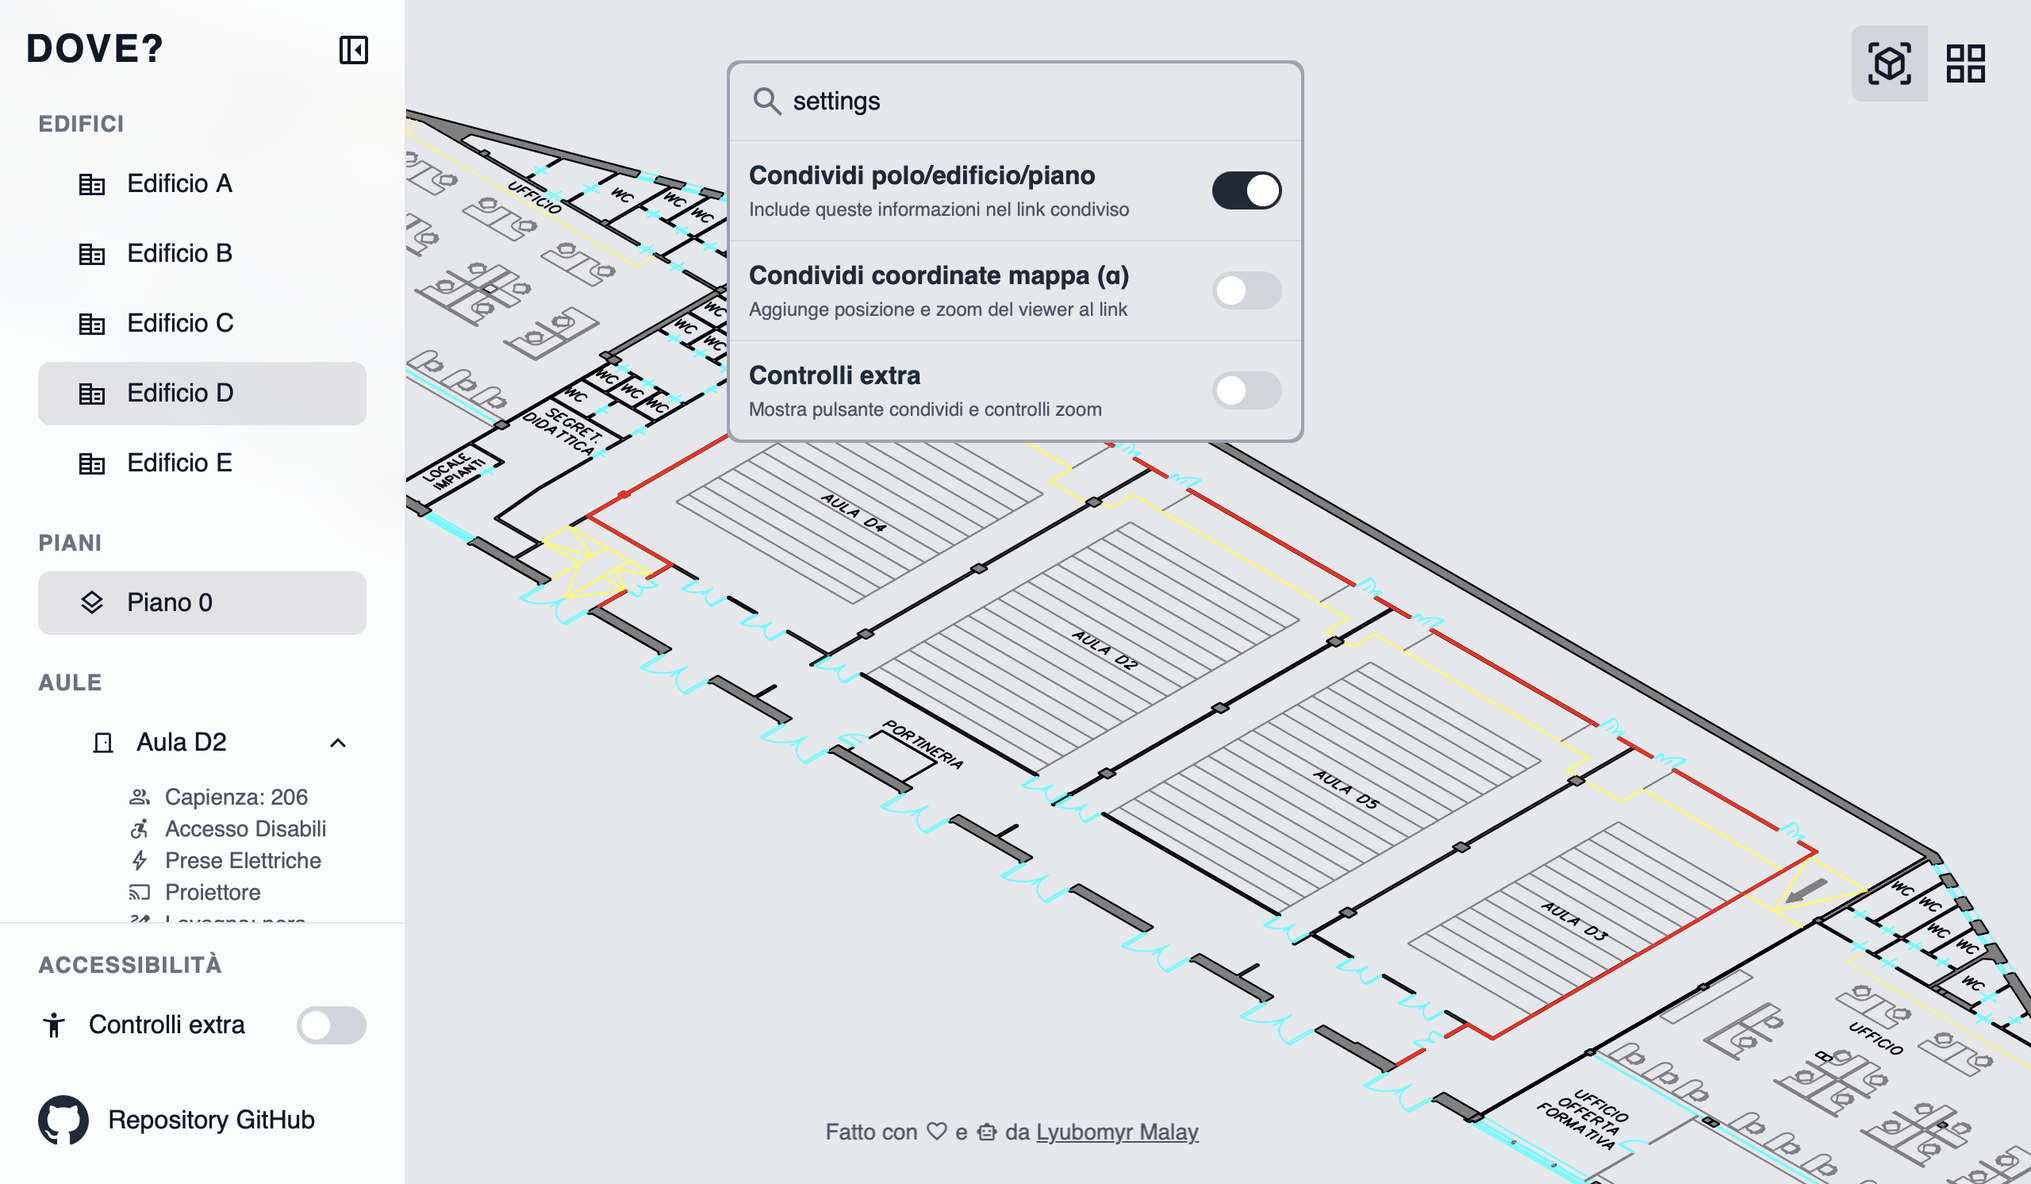
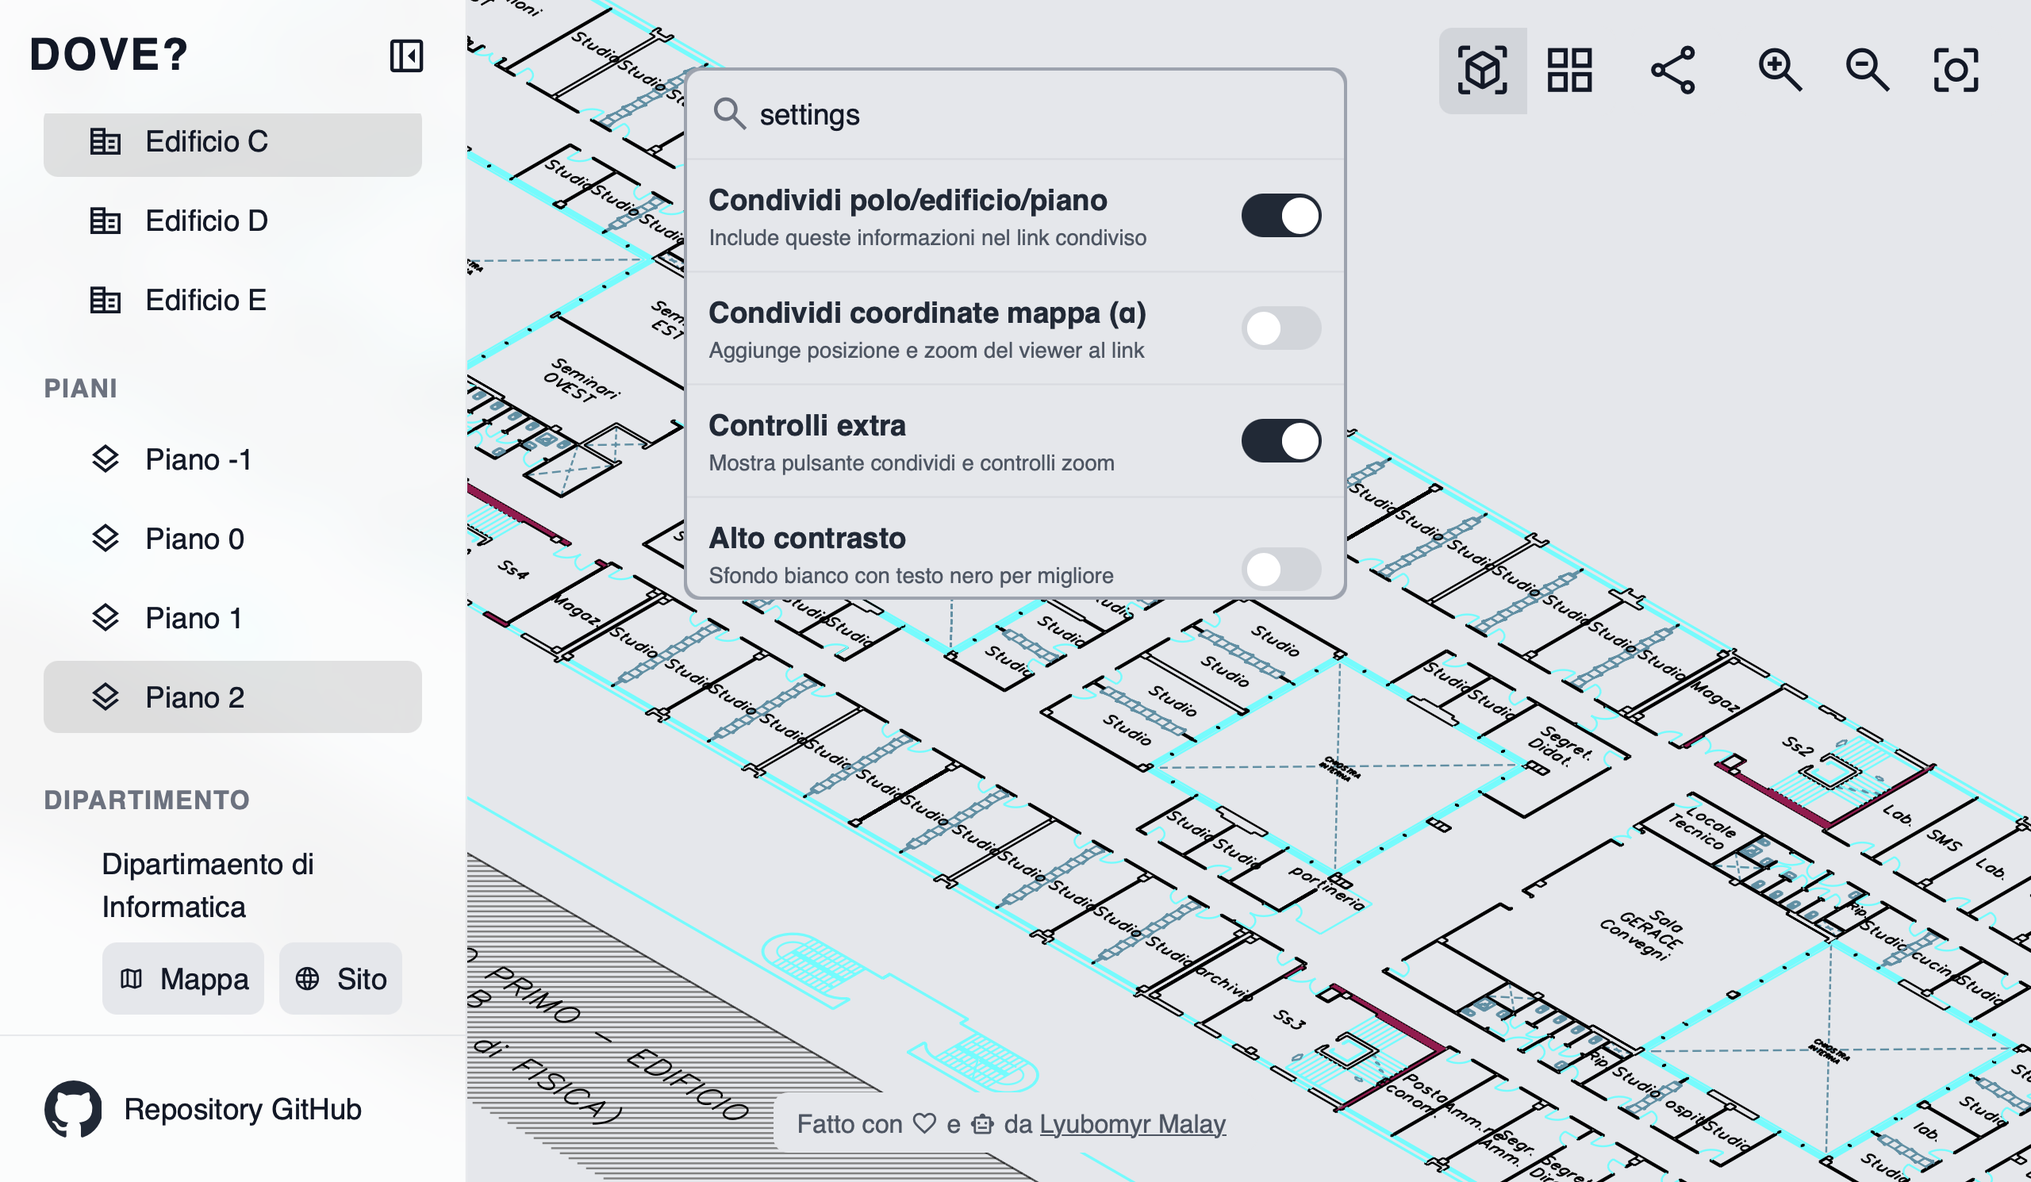
🐦⬛
Aggiunta la modalità ad alto contrasto.
Rimosso il toggle di accessibilità dalla barra laterale.
Aggiunta la sezione “Dipartimento”.
Aggiornato il file rooms.json (ancora da rifinire).
Ora la capienza viene mostrata su una nuova riga nella ricerca; anche gli altri valori non dovrebbero più spezzarsi.

diff --git a/index.html b/index.html
@@ -144,8 +144,8 @@ RMMMMRMMMMME        EMMMMMMMMMMMMM!
         .search-result-item:hover .details {
             color: #1F2937; /* gray-800 */
         }
-        .search-result-item.selected {
-            background-color: rgba(0, 0, 0, 0.1); /* 10% black opacity */
+        .nav-item.selected {
+            background-color: rgba(0, 0, 0, 0.1);
         }
         /* Stile per Google Material Symbols */
         .material-symbols-outlined {
@@ -446,6 +446,91 @@ RMMMMRMMMMME        EMMMMMMMMMMMMM!
                 z-index: 45;
             }
         }
+        /* High Contrast Mode */
+        .high-contrast {
+            background-color: white !important;
+            color: black !important;
+        }
+        .high-contrast * {
+            background-color: white !important;
+            color: black !important;
+            border-color: black !important;
+        }
+        .high-contrast svg * {
+            fill: black !important;
+            stroke: black !important;
+        }
+        .high-contrast .github-icon * {
+            fill: #1F2937 !important;
+            stroke: none !important;
+        }
+        .high-contrast #mobile-search-container {
+            background-color: transparent !important;
+        }
+        .high-contrast #share-btn {
+            width: 52px !important;
+            height: 52px !important;
+        }
+        .high-contrast button,
+        .high-contrast .button-group > button {
+            border: 2px solid black !important;
+        }
+        .high-contrast .button-group {
+            border: 2px solid black !important;
+        }
+        .high-contrast .button-group > button {
+            border: none !important;
+        }
+        .high-contrast .button-group > button.active {
+            background-color: black !important;
+            color: white !important;
+        }
+        .high-contrast .button-group > button.active .material-symbols-outlined {
+            color: white !important;
+            background-color: transparent !important;
+        }
+        .high-contrast .button-group > button.active svg * {
+            fill: white !important;
+            stroke: white !important;
+            background-color: transparent !important;
+        }
+        .high-contrast #top-bar {
+            background-color: transparent !important;
+        }
+        .high-contrast .nav-item.selected {
+            background-color: black !important;
+            color: white !important;
+        }
+        .high-contrast .nav-item.selected * {
+            background-color: transparent !important;
+            color: white !important;
+        }
+        .high-contrast .nav-item.selected .material-symbols-outlined {
+            color: white !important;
+            background-color: transparent !important;
+        }
+        .high-contrast .nav-item.selected svg * {
+            fill: white !important;
+            stroke: white !important;
+            background-color: transparent !important;
+        }
+        /* Toggle switches in high contrast mode */
+        .high-contrast label.relative.inline-flex > div {
+            background-color: black !important;
+            box-shadow: inset 0 0 0 1px white !important;
+        }
+        .high-contrast label.relative.inline-flex input:checked + div {
+            background-color: white !important;
+            box-shadow: inset 0 0 0 1px black !important;
+        }
+        .high-contrast label.relative.inline-flex > div::after {
+            background-color: white !important;
+            border-color: white !important;
+        }
+        .high-contrast label.relative.inline-flex input:checked + div::after {
+            background-color: black !important;
+            border-color: black !important;
+        }
     </style>
 </head>
 <body class="bg-gray-100 text-gray-900 no-transition">
@@ -566,7 +651,6 @@ RMMMMRMMMMME        EMMMMMMMMMMMMM!
 
                 <!-- Aule -->
                 <div class="p-2">
-                    <h3 class="text-sm font-semibold text-gray-500 uppercase tracking-wider">Aule</h3>
                     <div id="rooms-list" class="mt-2 space-y-1">
                         <!-- Le aule verranno inserite qui -->
                     </div>
@@ -575,25 +659,8 @@ RMMMMRMMMMME        EMMMMMMMMMMMMM!
 
             <!-- Footer Sidebar -->
             <div class="p-4 border-t border-gray-300/50 space-y-4">
-                <!-- Accessibilità -->
-                <div>
-                    <h3 class="px-2 text-sm font-semibold text-gray-500 uppercase tracking-wider">Accessibilità</h3>
-                    <div class="mt-2 space-y-1">
-                        <div class="flex items-center justify-between p-2 rounded-lg">
-                            <label for="accessibility-toggle" class="flex items-center space-x-3 cursor-pointer">
-                                <span class="material-symbols-outlined" style="font-size: 20px; line-height: 1;">accessibility_new</span>
-                                <span>Controlli extra</span>
-                            </label>
-                            <label class="relative inline-flex items-center cursor-pointer">
-                                <input type="checkbox" id="accessibility-toggle" class="sr-only peer">
-                                <div class="w-11 h-6 bg-gray-300 rounded-full peer peer-checked:after:translate-x-full peer-checked:after:border-white after:content-[''] after:absolute after:top-0.5 after:left-[2px] after:bg-white after:border-gray-300 after:border after:rounded-full after:h-5 after:w-5 after:transition-all peer-checked:bg-gray-800"></div>
-                            </label>
-                        </div>
-                    </div>
-                </div>
-
                 <a href="https://github.com/plumkewe/dove-unipi" target="_blank" class="nav-item flex items-center space-x-3 p-2 rounded-lg">
-                    <svg class="w-8 h-8 text-gray-800" viewBox="0 0 16 16" fill="currentColor" aria-hidden="true">
+                    <svg class="w-8 h-8 text-gray-800 github-icon" viewBox="0 0 16 16" fill="currentColor" aria-hidden="true">
                         <path d="M8 0C3.58 0 0 3.58 0 8c0 3.54 2.29 6.53 5.47 7.59.4.07.55-.17.55-.38 0-.19-.01-.82-.01-1.49-2.01.37-2.53-.49-2.69-.94-.09-.23-.48-.94-.82-1.13-.28-.15-.68-.52-.01-.53.63-.01 1.08.58 1.23.82.72 1.21 1.87.87 2.33.66.07-.52.28-.87.51-1.07-1.78-.2-3.64-.89-3.64-3.95 0-.87.31-1.59.82-2.15-.08-.2-.36-1.02.08-2.12 0 0 .67-.21 2.2.82.64-.18 1.32-.27 2-.27.68 0 1.36.09 2 .27 1.53-1.04 2.2-.82 2.2-.82.44 1.1.16 1.92.08 2.12.51.56.82 1.27.82 2.15 0 3.07-1.87 3.75-3.65 3.95.29.25.54.73.54 1.48 0 1.07-.01 1.93-.01 2.2 0 .21.15.46.55.38A8.013 8.013 0 0016 8c0-4.42-3.58-8-8-8z"></path>
                     </svg>
                     <span>Repository GitHub</span>
@@ -608,6 +675,11 @@ RMMMMRMMMMME        EMMMMMMMMMMMMM!
                 <!-- L'SVG verrà caricato qui -->
             </div>
         </div>
+    </div>
+
+    <!-- Hidden accessibility toggle for script access -->
+    <div style="display: none;">
+        <input type="checkbox" id="accessibility-toggle">
     </div>
 
     <!-- Controlli Zoom/Pan e Vista -->
@@ -757,10 +829,15 @@ RMMMMRMMMMME        EMMMMMMMMMMMMM!
             const accessibilityToggle = document.getElementById('accessibility-toggle');
             const storedShareCoordinates = localStorage.getItem('shareCoordinatesEnabled');
             const storedSharePath = localStorage.getItem('sharePathEnabled');
+            const storedHighContrast = localStorage.getItem('highContrastEnabled');
             const settingsConfig = {
                 shareCoordinates: storedShareCoordinates ? storedShareCoordinates === 'true' : false,
-                sharePath: storedSharePath ? storedSharePath === 'true' : true
+                sharePath: storedSharePath ? storedSharePath === 'true' : true,
+                highContrast: storedHighContrast ? storedHighContrast === 'true' : false
             };
+
+            // Apply initial high contrast setting
+            setHighContrastSetting(settingsConfig.highContrast);
 
             // Gestione controlli accessibilità
             const setAccessibilityControls = (visible) => {
@@ -959,13 +1036,13 @@ RMMMMRMMMMME        EMMMMMMMMMMMMM!
                             });
                         });
                     } else {
-                        const capacityDetails = result.room && result.room.capienza != null ? ` · Capienza ${result.room.capienza}` : '';
+                        const capacityDetails = result.room && result.room.capienza != null ? result.room.capienza : null;
                         resultElement.innerHTML = `
                             <div class="title">${result.room.nome}</div>
                             <div class="details">
                                 Polo ${result.polo.charAt(0).toUpperCase() + result.polo.slice(1)} <span class="material-symbols-outlined" style="font-size: 14px; vertical-align: -3px;">chevron_right</span>
                                 Edificio ${result.edificio.toUpperCase()} <span class="material-symbols-outlined" style="font-size: 14px; vertical-align: -3px;">chevron_right</span>
-                                Piano ${result.piano}${capacityDetails}
+                                Piano ${result.piano}${capacityDetails ? '<div>Capienza ' + capacityDetails + '</div>' : ''}
                             </div>
                         `;
                         resultElement.addEventListener('click', () => {
@@ -1013,6 +1090,13 @@ RMMMMRMMMMME        EMMMMMMMMMMMMM!
                         description: 'Mostra pulsante condividi e controlli zoom',
                         checked: accessibilityToggle.checked,
                         onToggle: setExtraControlsSetting
+                    },
+                    {
+                        key: 'highContrast',
+                        label: 'Alto contrasto',
+                        description: 'Sfondo bianco con testo nero per migliore accessibilità',
+                        checked: settingsConfig.highContrast,
+                        onToggle: setHighContrastSetting
                     }
                 ];
 
@@ -1107,6 +1191,17 @@ RMMMMRMMMMME        EMMMMMMMMMMMMM!
                 syncSettingsToggles();
             }
 
+            function setHighContrastSetting(isEnabled) {
+                settingsConfig.highContrast = isEnabled;
+                localStorage.setItem('highContrastEnabled', isEnabled);
+                if (isEnabled) {
+                    document.body.classList.add('high-contrast');
+                } else {
+                    document.body.classList.remove('high-contrast');
+                }
+                syncSettingsToggles();
+            }
+
             function syncSettingsToggles() {
                 document.querySelectorAll('input[data-settings-toggle]').forEach(input => {
                     const toggleType = input.getAttribute('data-settings-toggle');
@@ -1119,6 +1214,9 @@ RMMMMRMMMMME        EMMMMMMMMMMMMM!
                             break;
                         case 'extraControls':
                             input.checked = accessibilityToggle.checked;
+                            break;
+                        case 'highContrast':
+                            input.checked = settingsConfig.highContrast;
                             break;
                         default:
                             break;
@@ -1392,9 +1490,9 @@ RMMMMRMMMMME        EMMMMMMMMMMMMM!
                 Array.from(polosList.children).forEach(child => {
                     const poloName = child.querySelector('span:last-child').textContent.split(' ')[1].toLowerCase();
                     if (poloName === polo) {
-                        child.classList.add('bg-gray-900/10');
+                        child.classList.add('selected');
                     } else {
-                        child.classList.remove('bg-gray-900/10');
+                        child.classList.remove('selected');
                     }
                 });
 
@@ -1448,8 +1546,57 @@ RMMMMRMMMMME        EMMMMMMMMMMMMM!
                 // Gestisce entrambe le strutture dati: array di aule o oggetto con chiave 'aule'
                 const rooms = Array.isArray(floorData) ? floorData : (floorData?.aule ? Object.values(floorData.aule) : []);
 
-                if (rooms.length > 0) {
-                    rooms.forEach(room => {
+                const departments = rooms.filter(room => room.type === 'dipartimento');
+                const regularRooms = rooms.filter(room => room.type !== 'dipartimento');
+
+                if (departments.length > 0) {
+                    // Add Dipartimento header
+                    const deptHeader = document.createElement('h4');
+                    deptHeader.textContent = 'Dipartimento';
+                    deptHeader.className = 'text-sm font-semibold text-gray-500 uppercase tracking-wider';
+                    roomsList.appendChild(deptHeader);
+
+                    // List departments
+                    departments.forEach(dept => {
+                        const deptElement = document.createElement('div');
+                        deptElement.className = 'w-full text-left p-2 pl-8';
+                        deptElement.innerHTML = `<span>${dept.nome}</span>`;
+                        
+                        const buttonsContainer = document.createElement('div');
+                        buttonsContainer.className = 'flex space-x-2 mt-2';
+                        
+                        if (dept['link-mappa']) {
+                            const mapBtn = document.createElement('a');
+                            mapBtn.href = dept['link-mappa'];
+                            mapBtn.target = '_blank';
+                            mapBtn.className = 'flex items-center space-x-2 p-2 bg-gray-200 rounded-lg hover:bg-gray-300 transition-colors';
+                            mapBtn.innerHTML = `<span class="material-symbols-outlined" style="font-size: 16px;">map</span><span>Mappa</span>`;
+                            buttonsContainer.appendChild(mapBtn);
+                        }
+                        
+                        if (dept['link-dipartimento']) {
+                            const deptBtn = document.createElement('a');
+                            deptBtn.href = dept['link-dipartimento'];
+                            deptBtn.target = '_blank';
+                            deptBtn.className = 'flex items-center space-x-2 p-2 bg-gray-200 rounded-lg hover:bg-gray-300 transition-colors';
+                            deptBtn.innerHTML = `<span class="material-symbols-outlined" style="font-size: 16px;">language</span><span>Sito</span>`;
+                            buttonsContainer.appendChild(deptBtn);
+                        }
+                        
+                        deptElement.appendChild(buttonsContainer);
+                        roomsList.appendChild(deptElement);
+                    });
+                }
+
+                // Always add Aule header
+                const auleHeader = document.createElement('h4');
+                auleHeader.textContent = 'Aule';
+                auleHeader.className = 'text-sm font-semibold text-gray-500 uppercase tracking-wider';
+                roomsList.appendChild(auleHeader);
+
+                // List regular rooms
+                if (regularRooms.length > 0) {
+                    regularRooms.forEach(room => {
                         const roomContainer = document.createElement('div');
                         roomContainer.className = 'nav-item-container';
 
@@ -1513,7 +1660,10 @@ RMMMMRMMMMME        EMMMMMMMMMMMMM!
                         roomsList.appendChild(roomContainer);
                     });
                 } else {
-                    roomsList.innerHTML = '<p class="p-2 pl-8 text-sm text-gray-500">Nessuna aula trovata</p>';
+                    const noRoomsMsg = document.createElement('p');
+                    noRoomsMsg.className = 'p-2 pl-8 text-sm text-gray-500';
+                    noRoomsMsg.textContent = 'Nessuna aula trovata';
+                    roomsList.appendChild(noRoomsMsg);
                 }
             }
 
@@ -1525,9 +1675,9 @@ RMMMMRMMMMME        EMMMMMMMMMMMMM!
                 Array.from(buildingsList.children).forEach(child => {
                     const buildingName = child.querySelector('span:last-child').textContent.split(' ')[1].toLowerCase();
                     if (buildingName === building) {
-                        child.classList.add('bg-gray-900/10');
+                        child.classList.add('selected');
                     } else {
-                        child.classList.remove('bg-gray-900/10');
+                        child.classList.remove('selected');
                     }
                 });
 
@@ -1554,9 +1704,9 @@ RMMMMRMMMMME        EMMMMMMMMMMMMM!
                 Array.from(floorsList.children).forEach(child => {
                     const floorName = child.querySelector('span:last-child').textContent.split(' ')[1];
                     if (floorName === floor) {
-                        child.classList.add('bg-gray-900/10');
+                        child.classList.add('selected');
                     } else {
-                        child.classList.remove('bg-gray-900/10');
+                        child.classList.remove('selected');
                     }
                 });
                 

diff --git a/README.md b/README.md
@@ -138,18 +138,27 @@ Contiene tutti i dati su edifici, piani e aule, e l'interfaccia viene costruita 
           "piano": {
             "0": [
               {
-                "id": "D04",
-                "nome": "Aula D4",
-                "alias": ["D4"],
-                "capienza": 168,
+                "id": "fib_d2-d-0",
+                "nome": "Aula D2",
+                "alias": [
+                  "D2",
+                  "Informatica",
+                  "Corso B",
+                  "Matricole",
+                  "Matricole Informatica"
+                ],
+                "capienza": 206,
                 "presenza_pc": false,
                 "numero_pc": 0,
                 "prese_elettriche": true,
                 "numero_prese_elettriche": 0,
-                "prese_rete": true,
+                "porte_rete": false,
                 "proiettore": true,
                 "lavagna": "nera",
-                "note": ""
+                "type": "aula",
+                "note": "",
+                "rete": false,
+                "accesso_disabili": true
               },
               {
                 "..."
@@ -193,8 +202,11 @@ Digitando `condividi` o `share`, potrai facilmente copiare il **link al sito** o
 
 #### Accessibilità 
 
-Attualmente è possibile aggiungere **bottoni aggiuntivi** per alcune funzioni come **zoom** e **condivisione**.  
-In futuro si prevede di introdurre **modalità ad alto contrasto** e una **modalità di navigazione basata solo su pulsanti**.
+Attualmente è possibile aggiungere **pulsanti aggiuntivi** per alcune funzioni come **zoom** e **condivisione** ed attivare la **modalità ad alto contrasto**.
+
+Puoi accedere alle **impostazioni di accessibilità** digitando `impostazioni` o `settings` nella barra di ricerca.  
+
+In futuro si prevede di introdurre una **modalità di navigazione basata solo su pulsanti**.
 *(Non garantiamo nulla in questa fase di sviluppo.)*
 
 #### Keyboard shortcuts
